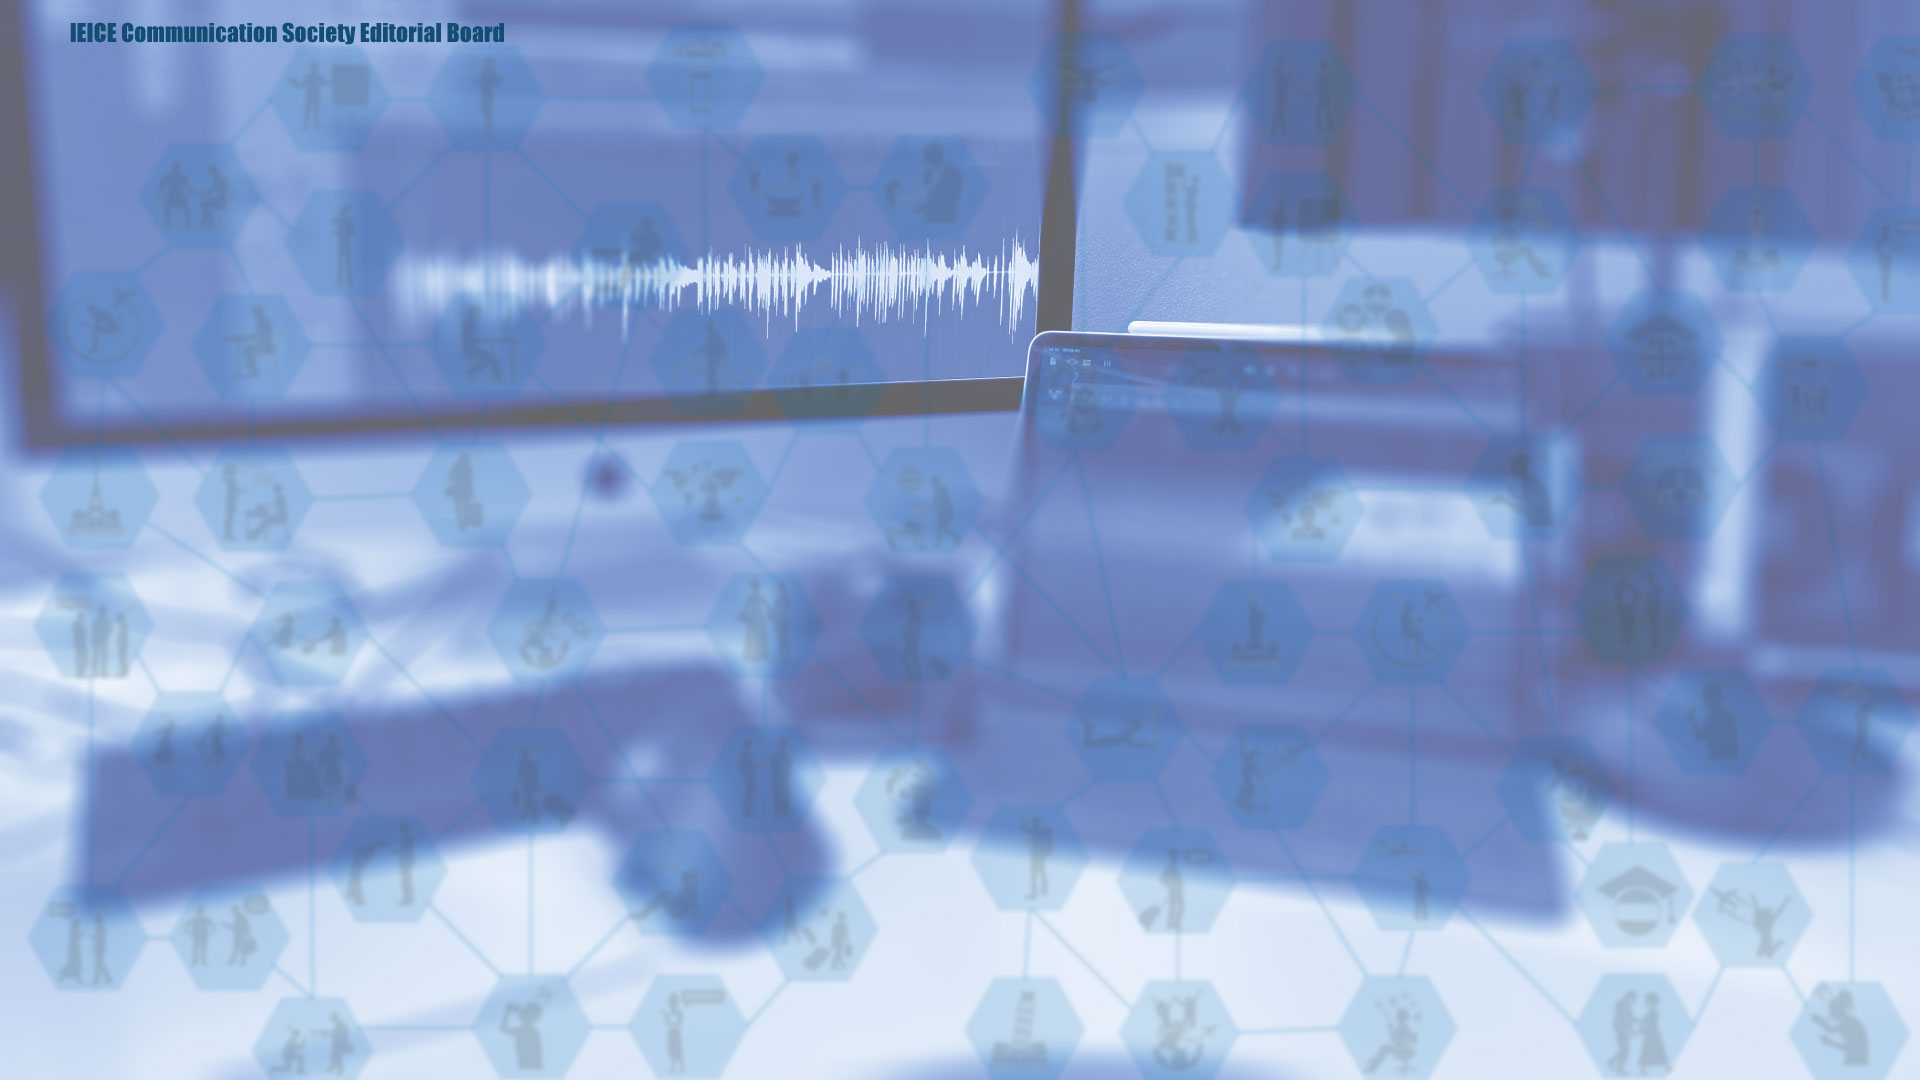
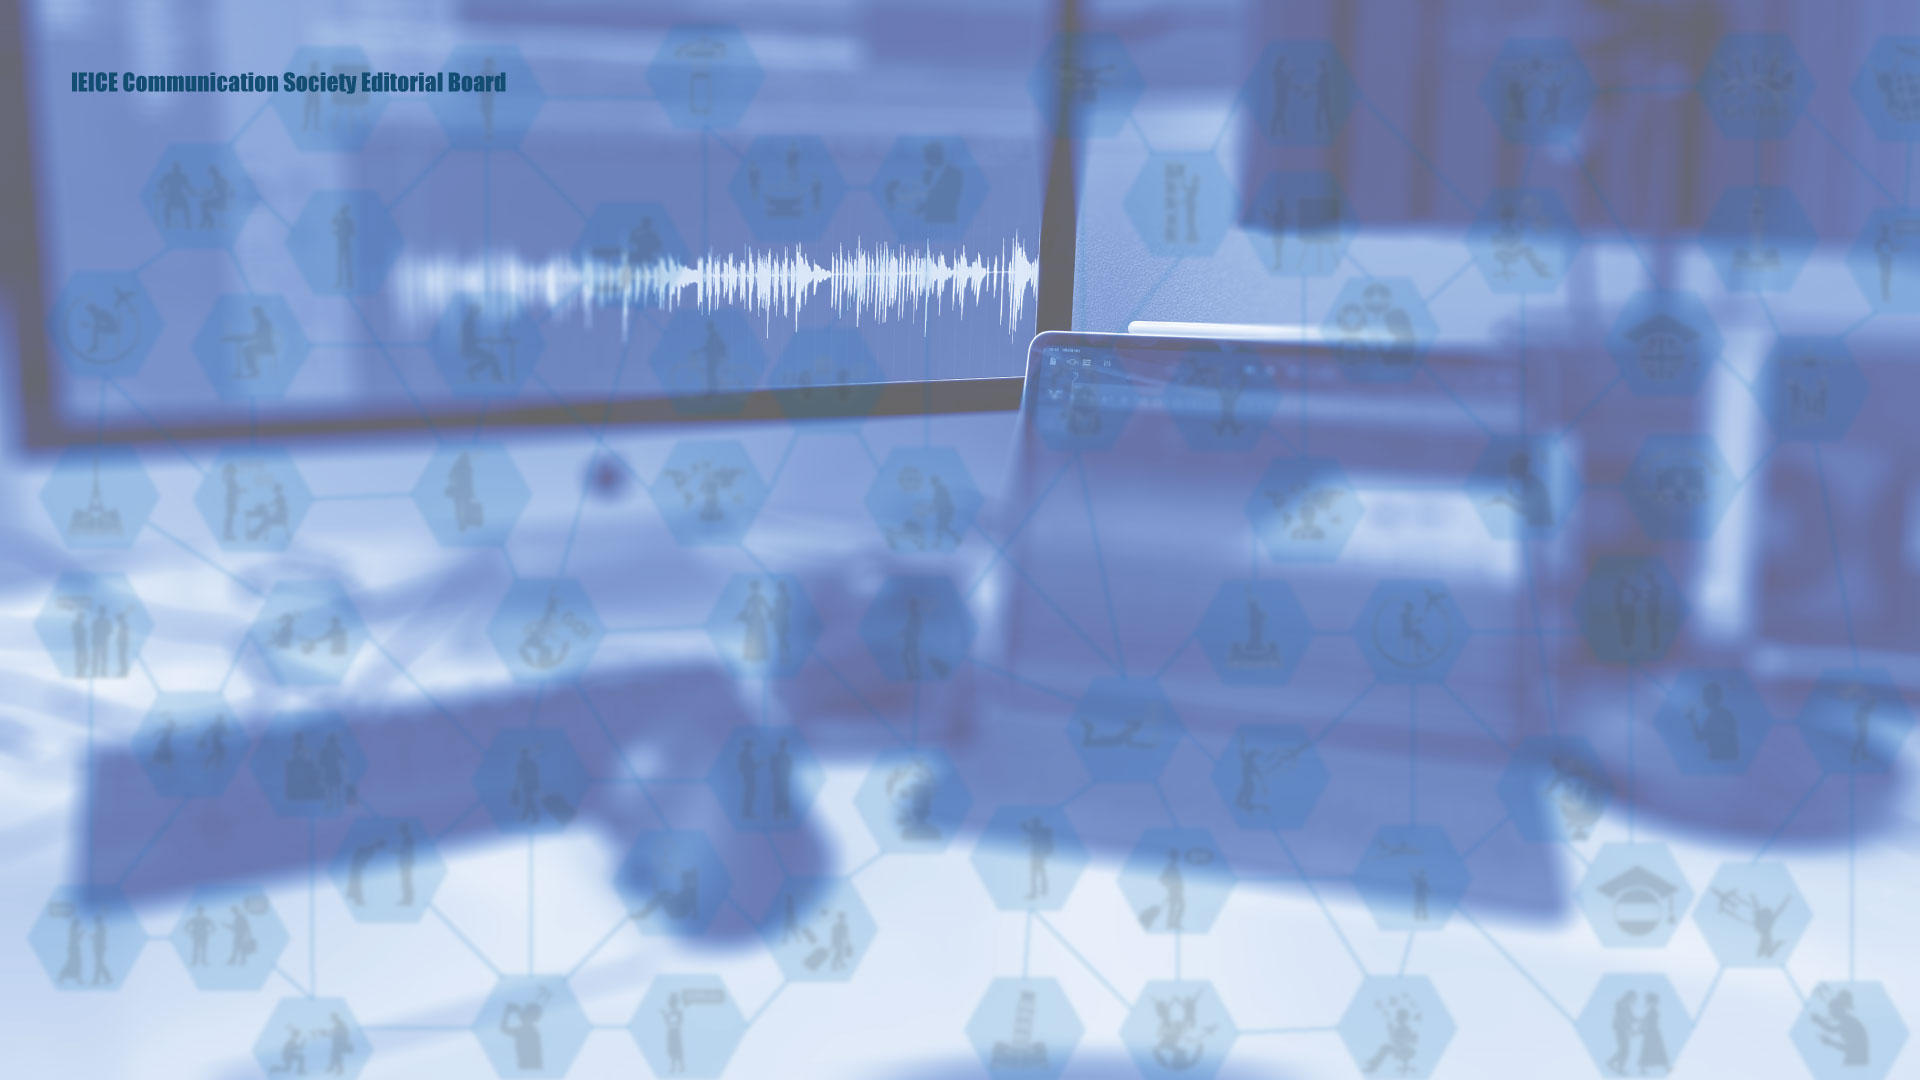
new jumbotron

Changed region(s): [[0.0312, 0.0, 0.2812, 0.0917]]

diff --git a/src/pages/index.md b/src/pages/index.md
@@ -3,7 +3,7 @@ templateKey: index-page
 title: IEICE Communication Society Editorial Board
 image: /img/home-jumbotron.jpg
 heading: IEICE Communication Society Editorial Board
-subheading: Support sustainable farming while enjoying a cup
+subheading: Support the future of communications
 mainpitch:
   title: Why IEICE
   description: >
